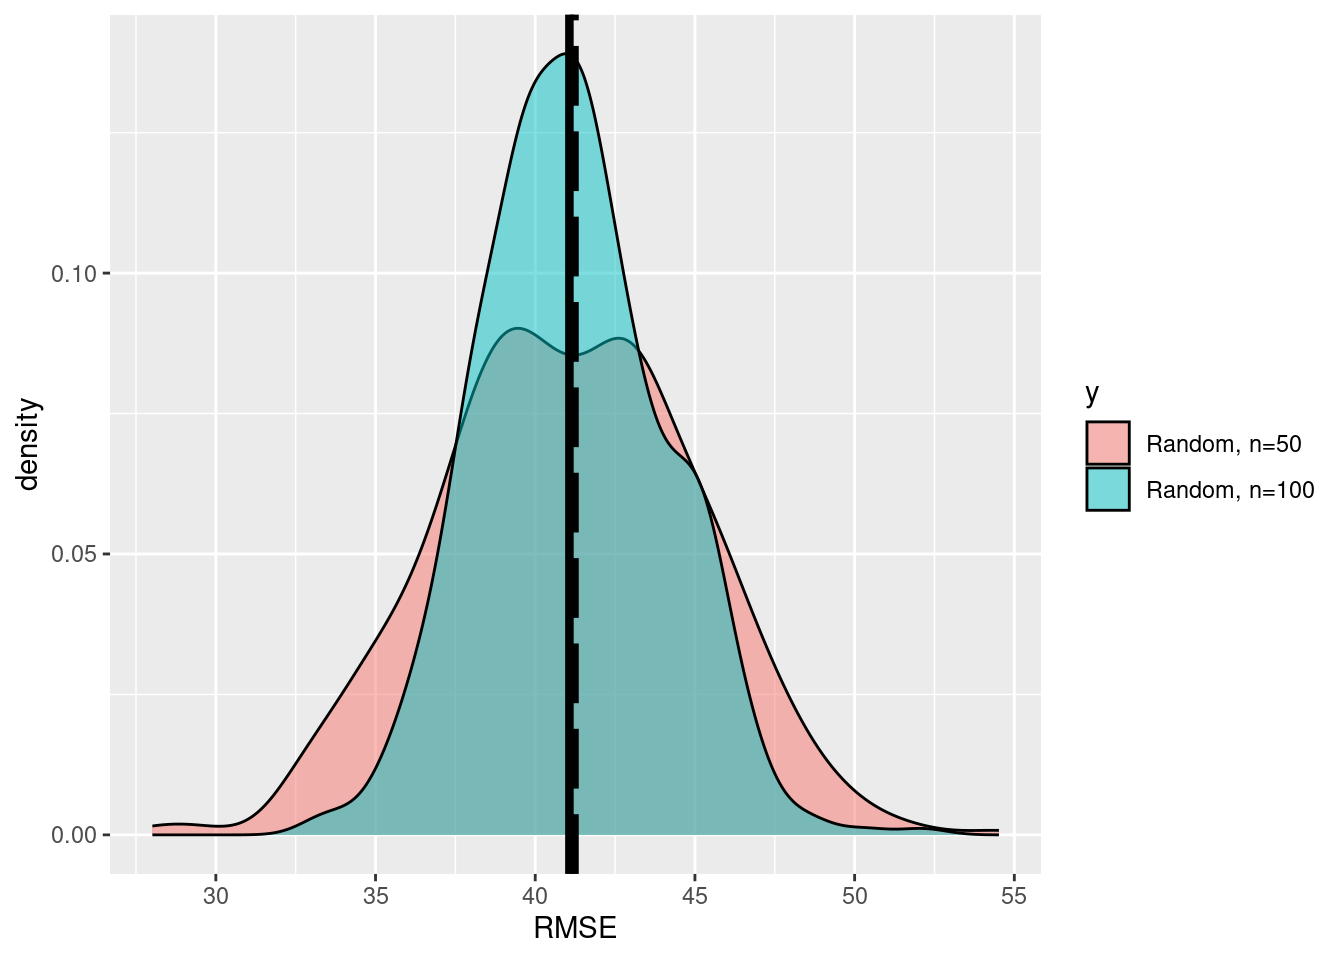
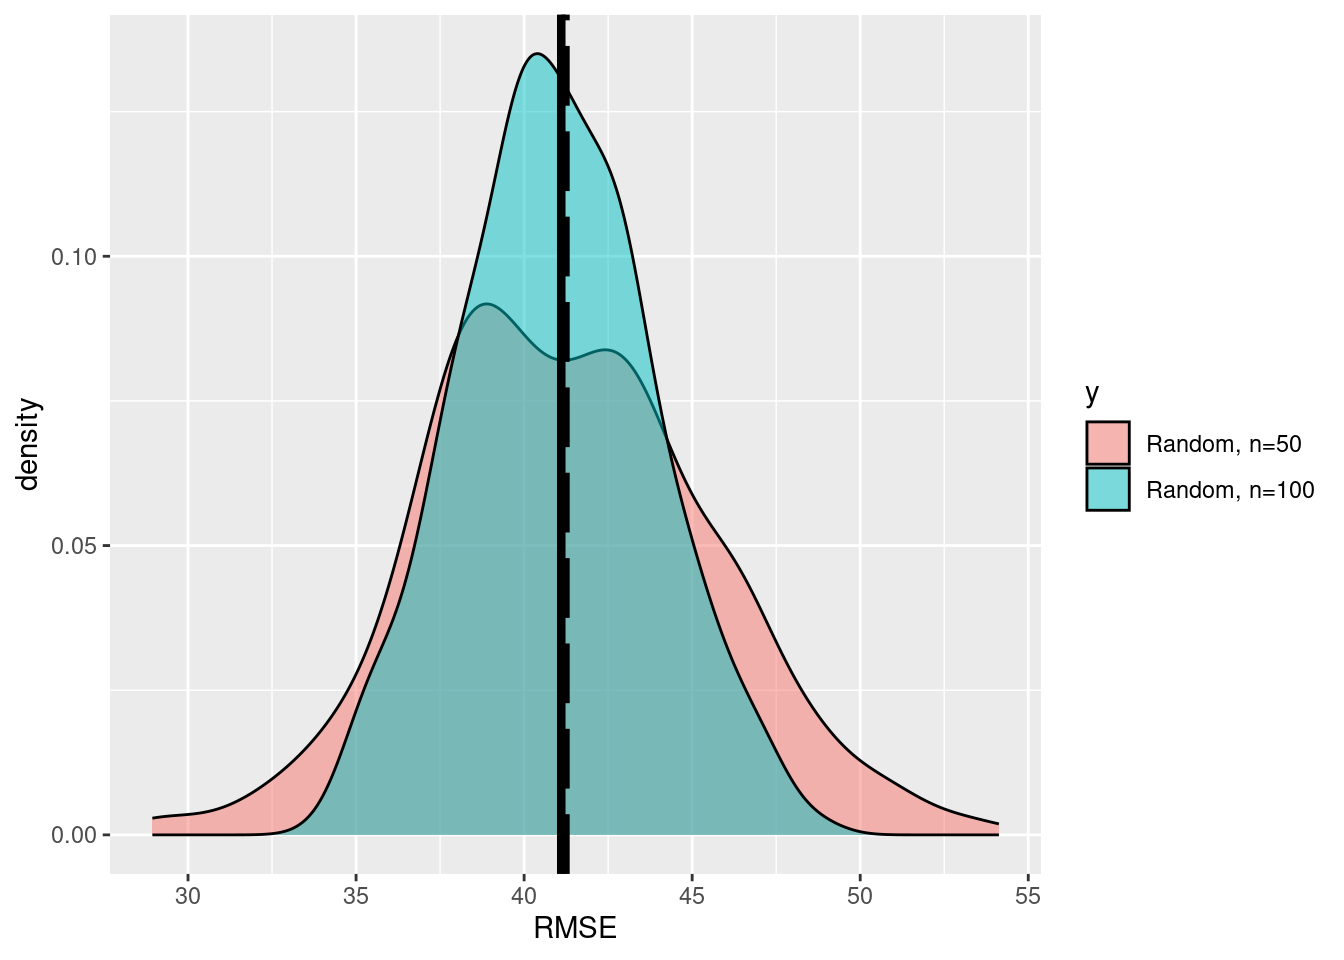
add

diff --git a/docs/paul_tutorial/02_ValidationDataCollection.html b/docs/paul_tutorial/02_ValidationDataCollection.html
@@ -374,7 +374,7 @@ RMSE = \sqrt{\frac{1}{N}\sum{(z(x_{ctor. Also today there was wind, not good for
 <div class="sourceCode cell-code" id="cb12"><pre class="sourceCode r code-with-copy"><code class="sourceCode r"><span id="cb12-1"><a href="#cb12-1" aria-hidden="true" tabindex="-1"></a>sample <span class="ot">&lt;-</span> raster<span class="sc">::</span><span class="fu">extract</span>((agb_pop<span class="sc">-</span>agb_model),<span class="fu">as_Spatial</span>(p1))</span>
 <span id="cb12-2"><a href="#cb12-2" aria-hidden="true" tabindex="-1"></a>RMSE_est <span class="ot">&lt;-</span> <span class="fu">sqrt</span>(<span class="fu">mean</span>((sample)<span class="sc">^</span><span class="dv">2</span>,<span class="at">na.rm=</span>T))</span></code><button title="Copy to Clipboard" class="code-copy-button"><i class="bi"></i></button></pre></div>
 </div>
-<p>The random sample estimates the RMSE as 44.61.</p>
+<p>The random sample estimates the RMSE as 41.47.</p>
 <p>But is this an unbiased estimate?</p>
 </section>
 <section id="simulation-of-many-random-samples" class="level1">
@@ -449,7 +449,7 @@ RMSE = \sqrt{\frac{1}{N}\sum{(z(x_{ctor. Also today there was wind, not good for
 <div class="cell">
 <div class="sourceCode cell-code" id="cb16"><pre class="sourceCode r code-with-copy"><code class="sourceCode r"><span id="cb16-1"><a href="#cb16-1" aria-hidden="true" tabindex="-1"></a><span class="fu">sd</span>(RMSE_2)<span class="sc">/</span><span class="fu">sd</span>(RMSE)</span></code><button title="Copy to Clipboard" class="code-copy-button"><i class="bi"></i></button></pre></div>
 <div class="cell-output cell-output-stdout">
-<pre><code>[1] 0.7072299</code></pre>
+<pre><code>[1] 0.6677773</code></pre>
 </div>
 </div>
 </section>
